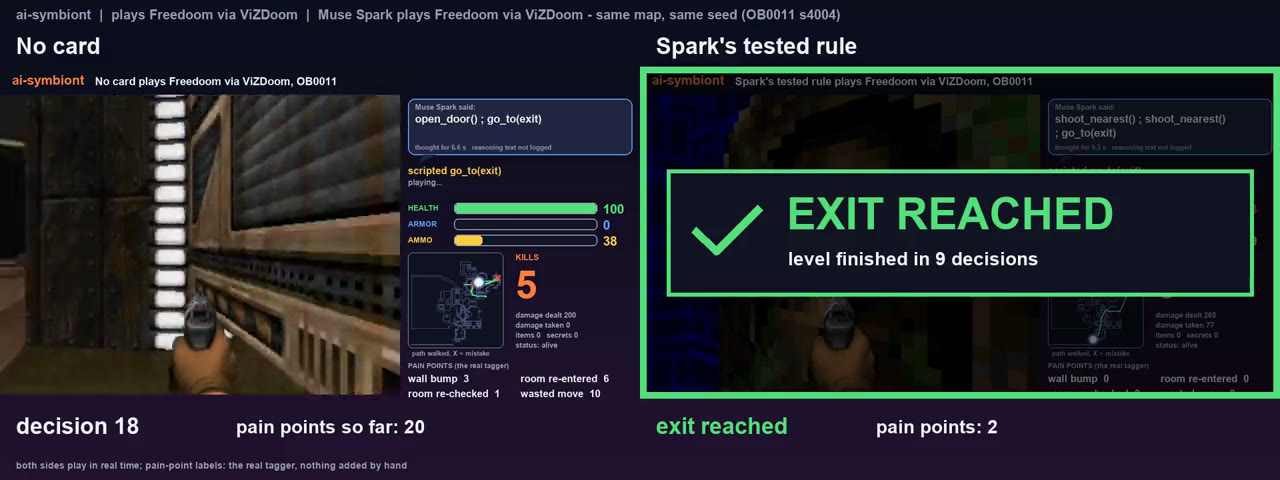
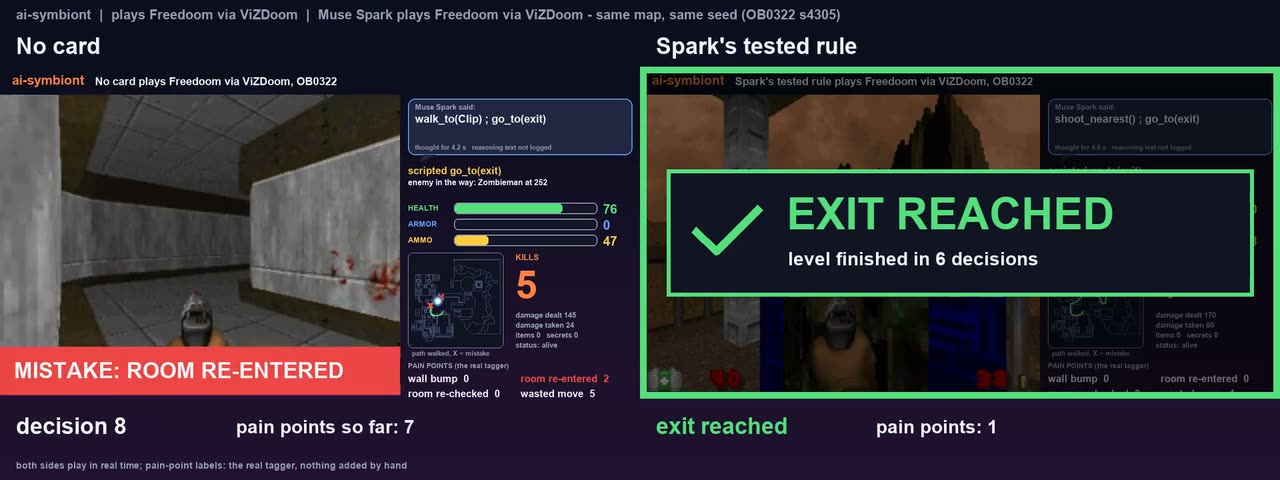
Landing: Freedoom example shows the rule's real effect (OB0322: both exit, 6 turns vs 15)
The previous clip's no-rule side got stuck for reasons the rule does not address. This pair shows
the mechanism: without the rule, step moves and wandering; with it, one path command to the exit.

Claude-Session: https://claude.ai/code/session_01MsH6w8PbJarbjbGKg456xg

diff --git a/docs/index.html b/docs/index.html
@@ -258,12 +258,12 @@ footer p+p{margin-top:.4rem}
     <div><div class="kicker">04 · A game · Muse Spark plays Freedoom via ViZDoom</div><h2>The model wrote its own rule, and the rule held up.</h2></div>
     <div class="flip"><em>+0.16</em><small>game score (0 to 1) across 240 new games: with the rule vs without it</small></div>
   </div>
-  <figure><div class="player"><video preload="none" playsinline poster="media/fd-exit.jpg" src="https://github.com/smalls257/ai-symbiont/releases/download/demo-media-2026-11-02/freedoom-rule-vs-no-rule-OB0011-sfx.mp4" aria-label="Same level, same seed. Left, without the rule: still wandering at decision 18. Right, with its own rule: exit reached, level finished in 9 decisions."></video><button class="play" type="button"><i>&#9654;</i>Watch it reach the exit · 1:53</button></div><figcaption>Same level, same random seed. Left: without the rule, still wandering at decision 18. Right: with the rule it wrote, exit reached in 9.</figcaption></figure>
+  <figure><div class="player"><video preload="none" playsinline poster="media/fd-exit.jpg" src="https://github.com/smalls257/ai-symbiont/releases/download/demo-media-2026-11-02/freedoom-OB0322-s4305-sfx.mp4" aria-label="Same level, same seed. Left, without the rule: 15 turns to the exit, with 6 small step moves. Right, with its own rule: exit reached in 6 decisions."></video><button class="play" type="button"><i>&#9654;</i>Watch it reach the exit · 0:57</button></div><figcaption>Same level, same random seed. Left: without the rule, 15 turns to the exit, with 6 small step moves. Right: with the rule it wrote, straight to the exit in 6.</figcaption></figure>
   <div class="beats">
-    <div class="beat wrong"><div class="k">What the model did wrong</div><p>Muse Spark, Meta's model, plays a level of Freedoom (a free, open-source first-person game) through ViZDoom, a research platform. Each turn it reads a text description of the screen and chooses its moves. On its own it wandered until it ran out of turns (32): in the recorded game, 8 wall bumps, 14 rooms re-entered, 18 wasted moves.</p></div>
+    <div class="beat wrong"><div class="k">What the model did wrong</div><p>Muse Spark, Meta's model, plays a level of Freedoom (a free, open-source first-person game) through ViZDoom, a research platform. Each turn it reads a text description of the screen and chooses its moves. On its own it wandered: in this recorded game it took 15 turns to reach the exit, including 6 small step moves.</p></div>
     <div class="beat"><div class="k">What symbiont noticed</div><p>It showed the model its own failed games and asked it for rules. The model proposed 6. We tested each one on new games and threw out 5.</p></div>
     <div class="beat note"><div class="k">The rule it wrote</div><blockquote><small>the one rule that survived testing, in the model's words</small>travel to far-away places with one path command instead of many small steps.</blockquote></div>
-    <div class="beat changed"><div class="k">What changed</div><div class="big">Exit in 9 turns</div><p>With the rule, the model reached the exit in 9 turns; without it, it ran out of turns at 32 on the same level. Across 240 new games it had never seen, the rule raised the game score by 0.16 on a 0-to-1 scale, and the gain held when we repeated the test. <span class="tag">[measured]</span> <span class="tag">[pre-registered]</span></p></div>
+    <div class="beat changed"><div class="k">What changed</div><div class="big">Exit in 6 turns, not 15</div><p>With the rule, the model reached the exit in 6 turns; without it, in 15, on the same level. Across 240 new games it had never seen, the rule raised the game score by 0.16 on a 0-to-1 scale, and the gain held when we repeated the test. <span class="tag">[measured]</span> <span class="tag">[pre-registered]</span></p></div>
   </div>
 </section>
 
